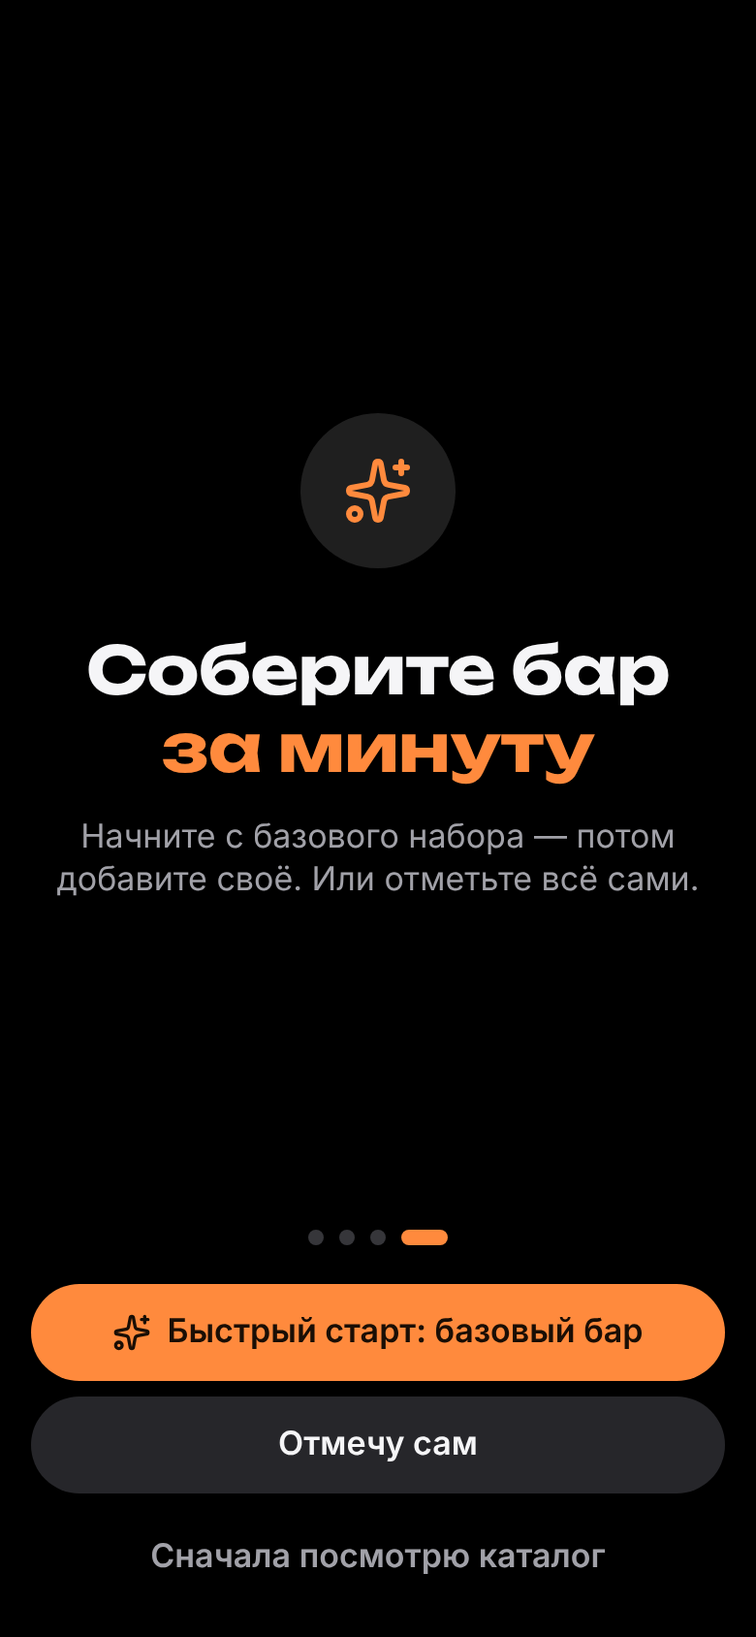
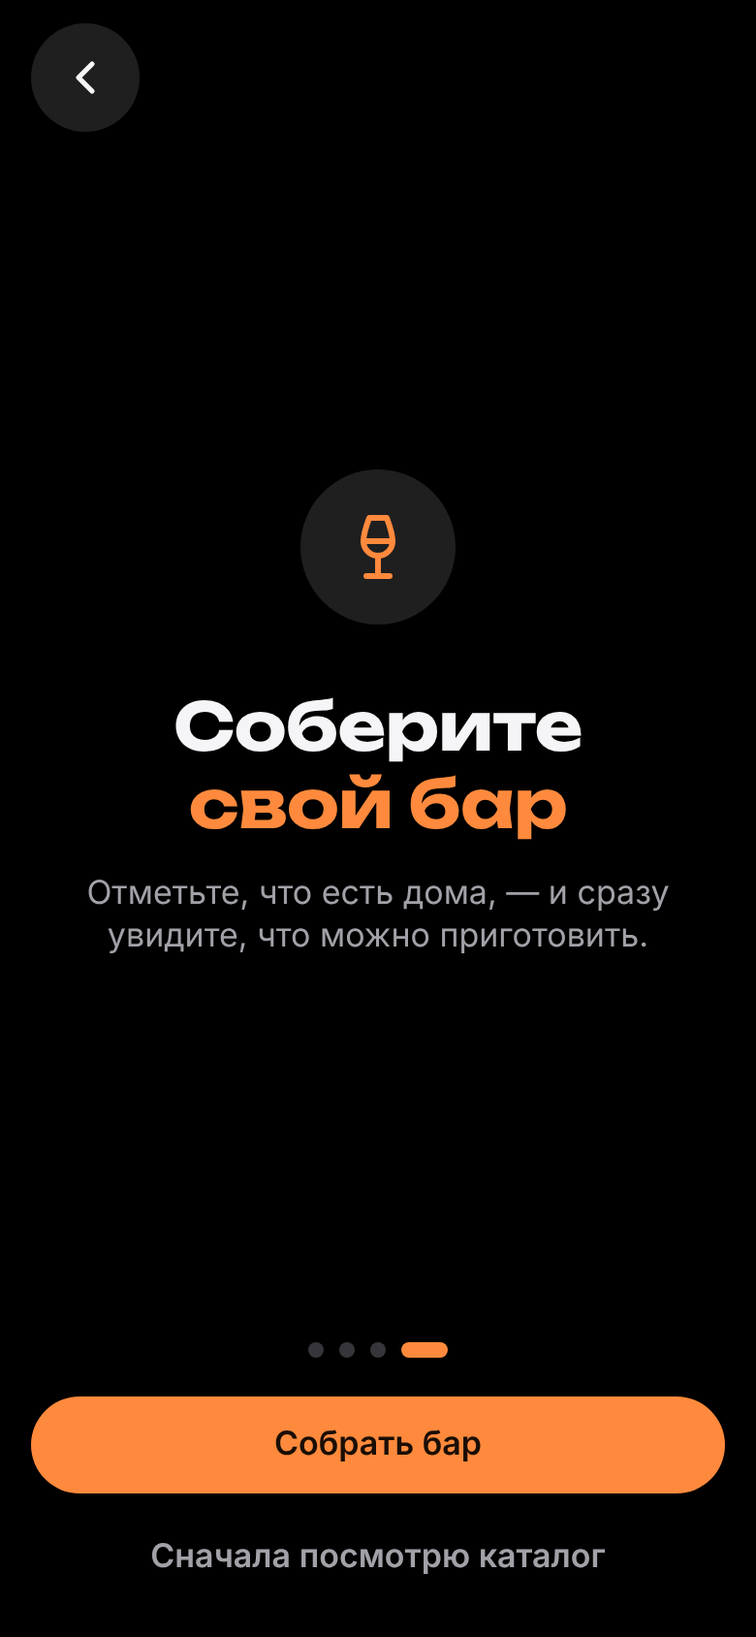
Онбординг: «Далее», «Назад» сверху, цикл отметок на 5 позициях, азбука вместо избранного, финал «Собрать бар»; базовый набор убран
Claude-Session: https://claude.ai/code/session_01CTSLijoM8Di1TL7d1o52Nz

Changed region(s): [[0.0615, 0.2464, 0.9231, 0.5853], [0.0308, 0.7393, 0.9538, 0.9242], [0.0308, 0.0, 0.1846, 0.0924]]

diff --git a/src/components/Onboarding.tsx b/src/components/Onboarding.tsx
@@ -1,9 +1,9 @@
 import { useEffect, useRef, useState, type PointerEvent, type ReactNode } from 'react';
-import { Sparkles } from 'lucide-react';
+import { ChevronLeft, Wine } from 'lucide-react';
 import { getCocktail } from '../lib/cocktails';
 import type { Cocktail } from '../types/cocktail';
 import { cn } from '../lib/cn';
-import { Button } from './ui/Button';
+import { Button, IconButton } from './ui/Button';
 import { PageDots } from './ui/PageDots';
 import { CocktailCard } from './ui/CocktailCard';
 import { CheckBox } from './ui/Toggles';
@@ -36,17 +36,21 @@ function CardFan() {
   );
 }
 
-const DEMO_ROWS = ['Джин', 'Кампари', 'Красный вермут'];
+const DEMO_ROWS = ['Джин', 'Кампари', 'Красный вермут', 'Лайм', 'Содовая'];
+/** «Можно приготовить» после каждой отметки; шаг — 1 с, круг — заново после паузы */
+const DEMO_CAN = [0, 0, 1, 3, 5, 9];
+const TICK = 1000;
 
-/** Слайд 2 — «Мой бар»: строки отмечаются по очереди, число «Можно приготовить» растёт */
+/** Слайд 2 — «Мой бар»: строки отмечаются по очереди, число «Можно приготовить» растёт; по кругу */
 function BarDemo({ active }: { active: boolean }) {
   const [step, setStep] = useState(0);
   useEffect(() => {
     if (!active) return setStep(0);
-    const t = [1, 2, 3].map((n) => setTimeout(() => setStep(n), 450 + n * 450));
-    return () => t.forEach(clearTimeout);
+    // 0 → 5 отметок, пауза на полном баре, сброс — и снова
+    const t = setInterval(() => setStep((n) => (n >= DEMO_ROWS.length + 1 ? 0 : n + 1)), TICK);
+    return () => clearInterval(t);
   }, [active]);
-  const can = [0, 1, 3, 6][step]!;
+  const can = DEMO_CAN[Math.min(step, DEMO_ROWS.length)]!;
   return (
     <div className="flex w-full max-w-80 flex-col gap-2" inert>
       <div className="hero-brand rounded-sheet p-5 text-on-media">
@@ -80,14 +84,13 @@ const OWN: Cocktail = {
   ],
 };
 
-/** Слайд 3 — своё: авторская карточка в избранном (♡ на ней), плитка азбуки */
+/** Слайд 3 — авторский коктейль и барная азбука */
 function OwnDemo() {
   return (
     <div className="flex w-full max-w-80 items-start gap-3" inert>
       <div className="w-40 shrink-0">
-        <CocktailCard cocktail={OWN} tabIndex={-1} favorite />
+        <CocktailCard cocktail={OWN} tabIndex={-1} />
       </div>
-      {/* ♡ — уже на карточке (избранное), рядом — плитка азбуки */}
       <div className="flex min-w-0 flex-1 flex-col justify-center self-stretch">
         <GuideTile topic="glass" label="Бокалы" count="10 статей" to="/guide" />
       </div>
@@ -100,7 +103,7 @@ type Slide = { title: [string, string]; text: string; visual: (active: boolean) 
 const SLIDES: Slide[] = [
   { title: ['100 коктейлей', 'с рецептами'], text: 'Поиск по названию и ингредиенту, фильтры и «Мне повезёт», когда не знаете, что выбрать.', visual: () => <CardFan /> },
   { title: ['Отметьте,', 'что есть дома'], text: '«Мой бар» покажет, что можно приготовить прямо сейчас и чего не хватает до нового.', visual: (a) => <BarDemo active={a} /> },
-  { title: ['Ваше', 'собственное'], text: 'Собирайте свои коктейли, сохраняйте любимые и разбирайтесь в бокалах и методах в азбуке.', visual: () => <OwnDemo /> },
+  { title: ['Свои коктейли', 'и азбука'], text: 'Собирайте авторские рецепты из того, что есть в баре, а в барной азбуке — разбирайтесь в бокалах, инструментах и методах.', visual: () => <OwnDemo /> },
 ];
 
 type Props = {
@@ -108,15 +111,15 @@ type Props = {
   /** «Пропустить», «Назад», «Понятно» */
   onClose: () => void;
   /** финал: быстрый старт / отмечу сам / каталог; null — без финала (повтор, бар уже не пуст) */
-  onFinish: ((choice: 'quick' | 'bar' | 'catalog') => void) | null;
+  onFinish: ((choice: 'bar' | 'catalog') => void) | null;
   /** для витрины: рисовать в рамке, начать с экрана */
   inline?: boolean;
   startAt?: number;
 };
 
 /**
- * Полноэкранный онбординг [pillowtalk, Google Health]: «Пропустить» сверху, визуал из настоящих компонентов,
- * заголовок Unbounded в два тона (вторая строка — акцент), подпись, точки и «Дальше». Свайп листает
+ * Полноэкранный онбординг [pillowtalk, Google Health]: «Назад» и «Пропустить» сверху, визуал из настоящих компонентов,
+ * заголовок Unbounded в два тона (вторая строка — акцент), подпись, точки и «Далее». Свайп листает вперёд
  * со следованием за пальцем; финальный экран — действие (заполнить бар), а не прощание.
  */
 export function Onboarding({ open, onClose, onFinish, inline, startAt = 0 }: Props) {
@@ -146,12 +149,11 @@ export function Onboarding({ open, onClose, onFinish, inline, startAt = 0 }: Pro
       (e.currentTarget as HTMLElement).setPointerCapture(e.pointerId);
     }
     // у краёв — сопротивление
-    if (d.on) setDx((index === 0 && mx > 0) || (last && mx < 0) ? mx / 3 : mx);
+    if (d.on) setDx(mx > 0 || last ? mx / 4 : mx); // назад свайпом нельзя — только тянется с сопротивлением
   };
   const onUp = () => {
     if (drag.current?.on) {
       if (dx < -60) go(index + 1);
-      else if (dx > 60) go(index - 1);
     }
     drag.current = null;
     setDx(0);
@@ -160,14 +162,14 @@ export function Onboarding({ open, onClose, onFinish, inline, startAt = 0 }: Pro
   const finalSlide = (
     <div className="flex h-full flex-col items-center justify-center px-6 text-center">
       <span className="flex size-20 items-center justify-center rounded-full bg-tile-strong text-accent">
-        <Sparkles className="size-9" aria-hidden />
+        <Wine className="size-9" aria-hidden />
       </span>
       <h2 className="mt-8 font-display text-display text-fg">
-        Соберите бар
+        Соберите
         <br />
-        <span className="text-accent">за минуту</span>
+        <span className="text-accent">свой бар</span>
       </h2>
-      <p className="mt-4 text-body text-fg-2">Начните с базового набора — потом добавите своё. Или отметьте всё сами.</p>
+      <p className="mt-4 text-body text-fg-2">Отметьте, что есть дома, — и сразу увидите, что можно приготовить.</p>
     </div>
   );
 
@@ -177,12 +179,18 @@ export function Onboarding({ open, onClose, onFinish, inline, startAt = 0 }: Pro
       aria-modal={inline ? undefined : true}
       aria-label="Знакомство с BAR"
       className={cn('flex flex-col overflow-hidden bg-bg text-fg', inline ? 'relative h-[760px]' : 'fixed inset-0 z-[60] mx-auto max-w-app')}
-      onKeyDown={(e) => (e.key === 'ArrowRight' ? go(index + 1) : e.key === 'ArrowLeft' ? go(index - 1) : undefined)}
+      onKeyDown={(e) => (e.key === 'ArrowRight' ? go(index + 1) : undefined)}
     >
       <div className={cn('shrink-0', !inline && 'pt-safe')}>
-        <div className="flex h-nav-btn items-center justify-end px-2">
+        <div className="flex h-nav-btn items-center justify-between px-4">
+          {/* шаг назад — только этой кнопкой (свайп листает вперёд, системное «Назад» закрывает) */}
+          {index > 0 ? (
+            <IconButton icon={ChevronLeft} label="Назад" size="xl" className="bg-tile-strong!" onClick={() => go(index - 1)} />
+          ) : (
+            <span aria-hidden />
+          )}
           {!last && (
-            <Button variant="plain" size="m" className="text-fg-2!" onClick={onClose}>
+            <Button variant="plain" size="m" className="-mr-2 text-fg-2!" onClick={onClose}>
               Пропустить
             </Button>
           )}
@@ -221,11 +229,8 @@ export function Onboarding({ open, onClose, onFinish, inline, startAt = 0 }: Pro
         <PageDots count={total} index={index} className="mb-5" />
         {last && onFinish ? (
           <div className="flex flex-col gap-2">
-            <Button icon={Sparkles} className="w-full" onClick={() => onFinish('quick')}>
-              Быстрый старт: базовый бар
-            </Button>
-            <Button variant="secondary" className="w-full" onClick={() => onFinish('bar')}>
-              Отмечу сам
+            <Button className="w-full" onClick={() => onFinish('bar')}>
+              Собрать бар
             </Button>
             <Button variant="plain" className="w-full text-fg-2!" onClick={() => onFinish('catalog')}>
               Сначала посмотрю каталог
@@ -233,7 +238,7 @@ export function Onboarding({ open, onClose, onFinish, inline, startAt = 0 }: Pro
           </div>
         ) : (
           <Button className="w-full" onClick={next}>
-            {last ? 'Понятно' : 'Дальше'}
+            {last ? 'Понятно' : 'Далее'}
           </Button>
         )}
       </div>

diff --git a/src/pages/BarPage.tsx b/src/pages/BarPage.tsx
@@ -3,12 +3,12 @@ import { TOPICS, termsOf } from '../lib/glossary';
 import { GuideTile } from '../components/ui/GuideParts';
 import { articlesLabel } from './GuidePage';
 import { useMemo } from 'react';
-import { ChevronRight, CircleHelp, HardDriveDownload, Heart, Sparkles } from 'lucide-react';
+import { ChevronRight, CircleHelp, HardDriveDownload, Heart, Plus } from 'lucide-react';
 import { Link, useNavigate } from 'react-router';
 import type { Cocktail } from '../types/cocktail';
 import { cocktails, getCocktail, plural } from '../lib/cocktails';
 import { useFavorites } from '../lib/favorites';
-import { QUICK_START, SECTIONS, barSummary, canMake, inventoryPersisted, sectionOf, unlocks, useInventory } from '../lib/inventory';
+import { SECTIONS, barSummary, canMake, inventoryPersisted, sectionOf, unlocks, useInventory } from '../lib/inventory';
 import { HintLine, InfoNote } from '../components/ui/Availability';
 import { BarHero } from '../components/ui/BarHero';
 import { BarCategoryCard } from '../components/ui/BarRows';
@@ -26,7 +26,7 @@ const sectionMeta = (rows: BarRow[]) => (rows.length ? positionsLabel(rows.lengt
 
 /** «Мой бар» v2: итог + два раздела-карточки [WHOOP, GitHub]; списки — на страницах разделов */
 export function BarPage() {
-  const { inv, add } = useInventory();
+  const { inv } = useInventory();
   const rows = useBarRows();
   const { openAdd } = useBarNav();
   const navigate = useNavigate();
@@ -63,11 +63,11 @@ export function BarPage() {
       {empty ? (
         <EmptyState
           className="py-8!"
-          title="Соберите бар за минуту"
-          hint="Добавьте, что есть дома, — покажем, что можно приготовить"
+          title="Соберите свой бар"
+          hint="Отметьте, что есть дома, — покажем, что можно приготовить"
           action={
-            <Button icon={Sparkles} onClick={() => add(QUICK_START)}>
-              Быстрый старт: базовый бар
+            <Button icon={Plus} onClick={() => openAdd('alcohol')}>
+              Добавить алкоголь
             </Button>
           }
         />

diff --git a/src/pages/DesignSystemPage.tsx b/src/pages/DesignSystemPage.tsx
@@ -656,9 +656,9 @@ export function DesignSystemPage() {
             className="mx-4 rounded-card bg-tile"
           />
           <EmptyState
-            title="Соберите бар за минуту"
-            hint="Добавьте, что есть дома, — покажем, что можно приготовить"
-            action={<Button>Быстрый старт: базовый бар</Button>}
+            title="Соберите свой бар"
+            hint="Отметьте, что есть дома, — покажем, что можно приготовить"
+            action={<Button icon={Plus}>Добавить алкоголь</Button>}
             className="mx-4 rounded-card bg-tile"
           />
         </div>
@@ -1033,16 +1033,11 @@ export function DesignSystemPage() {
               />
             </div>
           </State>
-          <State label="Пустой бар — EmptyState без иконки, два действия" inset>
+          <State label="Пустой бар — EmptyState без иконки, одно действие: собрать самому" inset>
             <EmptyState
-              title="Соберите бар за минуту"
-              hint="Отметьте, что есть дома — покажем, что можно приготовить"
-              action={
-                <div className="flex flex-col items-stretch gap-2">
-                  <Button icon={Plus}>Добавить</Button>
-                  <Button variant="plain" size="m">Быстрый старт: базовый бар</Button>
-                </div>
-              }
+              title="Соберите свой бар"
+              hint="Отметьте, что есть дома, — покажем, что можно приготовить"
+              action={<Button icon={Plus}>Добавить алкоголь</Button>}
             />
           </State>
           <State label="Toast · убрано, над таб-баром" inset>

diff --git a/src/main.tsx b/src/main.tsx
@@ -15,7 +15,7 @@ import { cocktails, countLabel } from './lib/cocktails';
 import { useCustomCocktails } from './lib/custom';
 import { useFavorites } from './lib/favorites';
 import { applyFilters, hasFacetFilters, parseFilters } from './lib/filters';
-import { QUICK_START, canMake, useInventory } from './lib/inventory';
+import { canMake, useInventory } from './lib/inventory';
 import { ONBOARDING_HASH, markOnboarded, shouldOnboard } from './lib/onboarding';
 import { Onboarding } from './components/Onboarding';
 import { OnboardingPreviewPage } from './pages/OnboardingPreviewPage';
@@ -36,7 +36,7 @@ const TAB_ROOTS = new Set(['/', '/bar']);
 function Layout() {
   const location = useLocation();
   const navigate = useNavigate();
-  const { inv, add } = useInventory();
+  const { inv } = useInventory();
   const { list: favList } = useFavorites();
   const { list: myList } = useCustomCocktails();
   const onRoot = TAB_ROOTS.has(location.pathname);
@@ -66,10 +66,12 @@ function Layout() {
     if ((location.state as { sheet?: boolean } | null)?.sheet) navigate(-1);
     else navigate({ pathname: location.pathname, search: location.search, hash: '' }, { replace: true, preventScrollReset: true });
   };
-  const finishIntro = (choice: 'quick' | 'bar' | 'catalog') => {
+  const finishIntro = (choice: 'bar' | 'catalog') => {
     markOnboarded();
-    if (choice === 'quick') add(QUICK_START);
-    navigate(choice === 'catalog' ? '/' : '/bar', { replace: true });
+    if (choice === 'catalog') return navigate('/', { replace: true });
+    // «Собрать бар» — «Мой бар» и сразу шторка добавления алкоголя («Назад» её закрывает)
+    navigate('/bar', { replace: true });
+    navigate({ pathname: '/bar', hash: '#add-alcohol' }, { state: { sheet: true } });
   };
 
   const isLucky = onRoot && location.hash === '#lucky';

diff --git a/src/pages/OnboardingPreviewPage.tsx b/src/pages/OnboardingPreviewPage.tsx
@@ -4,9 +4,8 @@ import { RotateCcw } from 'lucide-react';
 import { Onboarding } from '../components/Onboarding';
 import { Button, buttonClass } from '../components/ui/Button';
 
-const CHOICE: Record<'quick' | 'bar' | 'catalog' | 'skip', string> = {
-  quick: '«Быстрый старт» — добавил бы базовый бар и открыл «Мой бар»',
-  bar: '«Отмечу сам» — открыл бы «Мой бар»',
+const CHOICE: Record<'bar' | 'catalog' | 'skip', string> = {
+  bar: '«Собрать бар» — открыл бы «Мой бар» со шторкой добавления',
   catalog: '«Сначала посмотрю каталог» — открыл бы каталог',
   skip: '«Пропустить» — открыл бы приложение',
 };

diff --git a/src/lib/inventory.ts b/src/lib/inventory.ts
@@ -36,8 +36,6 @@ export function barItems(group: IngredientGroup): IngredientDef[] {
     .sort((a, b) => a.name.localeCompare(b.name, 'ru'));
 }
 
-export const QUICK_START = ['gin', 'white-rum', 'vodka', 'lime', 'lemon', 'simple-syrup', 'soda'];
-
 // --- Наличие ---
 
 export type Inventory = ReadonlySet<string>;

diff --git a/docs/previews/README.md b/docs/previews/README.md
@@ -365,7 +365,7 @@ Android — shared axis X, «назад» как предиктивный жес
 
 ## Шаг 24 — онбординг первого запуска, 2026-10-29
 
-| 1 · каталог | 2 · «Мой бар» | 3 · своё | Финал | После «Быстрого старта» |
+| 1 · каталог | 2 · «Мой бар» (кадры цикла) | 3 · свои коктейли и азбука | Финал | После «Собрать бар» |
 |---|---|---|---|---|
 | ![](step24-onboarding-1-catalog.png) | ![](step24-onboarding-2-bar.png) | ![](step24-onboarding-3-own.png) | ![](step24-onboarding-4-finish.png) | ![](step24-onboarding-5-after-quick-start.png) |
 
@@ -374,3 +374,8 @@ Android — shared axis X, «назад» как предиктивный жес
 отмечаются по очереди, авторская карточка в избранном и плитка азбуки. Свайп или «Дальше», «Пропустить» сверху,
 системное «Назад» закрывает. Финал — действие: базовый бар, «Отмечу сам» или каталог. Повтор — «Как устроено
 приложение» внизу «Моего бара» (с непустым баром — без финала).
+
+**24b (2026-10-29):** правки владельца — «Далее» вместо «Дальше»; «Назад» сверху слева со 2-го экрана, шаг назад — только
+кнопкой (свайп листает вперёд, системное «Назад» закрывает); экран 2 — 5 позиций, отметка раз в секунду, по кругу;
+экран 3 — без избранного, акцент на барной азбуке; финал — «Собрать бар» (→ «Мой бар» со шторкой добавления) и
+«Сначала посмотрю каталог». Базового набора больше нет нигде, в том числе в пустом «Моём баре» — там «Добавить алкоголь».

diff --git a/plan.md b/plan.md
@@ -79,7 +79,7 @@
 
 ## Решения
 
-1. 3 слайда + финал; повтор — «Как устроено приложение» внизу «Моего бара»; без опроса вкусов.
+1. 3 слайда + финал («Собрать бар» / «Сначала посмотрю каталог», без базового набора); «Назад» сверху — единственный шаг назад; повтор — «Как устроено приложение» внизу «Моего бара»; без опроса вкусов.
 2. Онбординг — по хэшу `#intro`, как шторки: системное «Назад» закрывает его (не выкидывает из приложения на первом запуске), между слайдами — свайп и «Дальше».
 3. Скрипты снимков (`screenshot.mjs`, `shots-*.mjs`) ставят флаг пройденного онбординга; `--intro` — снять его.
 
